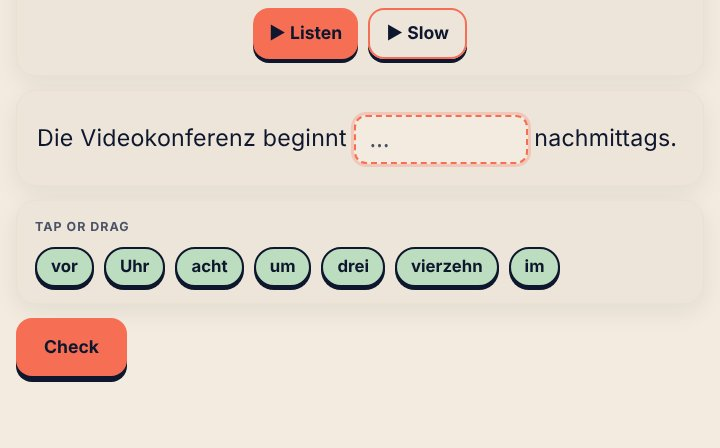
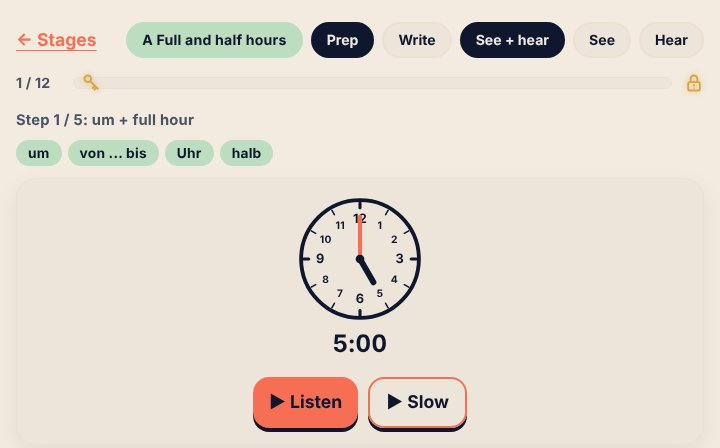
Student dashboard: better Numbers & Time thumbnail
Claude-Session: https://claude.ai/code/session_01Twj9HQ6HPCNG8CJwK8Kcfv

diff --git a/student/index.html b/student/index.html
@@ -105,7 +105,7 @@ h1 span{color:var(--navy);display:block}
       <span class="go">Open the study path</span>
     </a>
     <a class="tool wide" href="/numbers/">
-      <img class="shot" src="/student/thumbs/numbers.jpg" width="720" height="448" alt="Numbers and Time: a clock with the gap to fill in" loading="lazy">
+      <img class="shot" src="/student/thumbs/numbers.jpg" width="720" height="448" alt="Numbers and Time: a clock and audio buttons" loading="lazy">
       <div class="top"><div class="ic"><svg viewBox="0 0 24 24" aria-hidden="true"><circle cx="12" cy="12" r="9"/><path d="M12 7v5l3 2"/></svg></div><span class="badge">New</span></div>
       <h2>Numbers &amp; Time</h2>
       <p>Learn numbers, parts of the day and clock times step by step. Drag word tiles or type, and choose to see, hear or both.</p>
